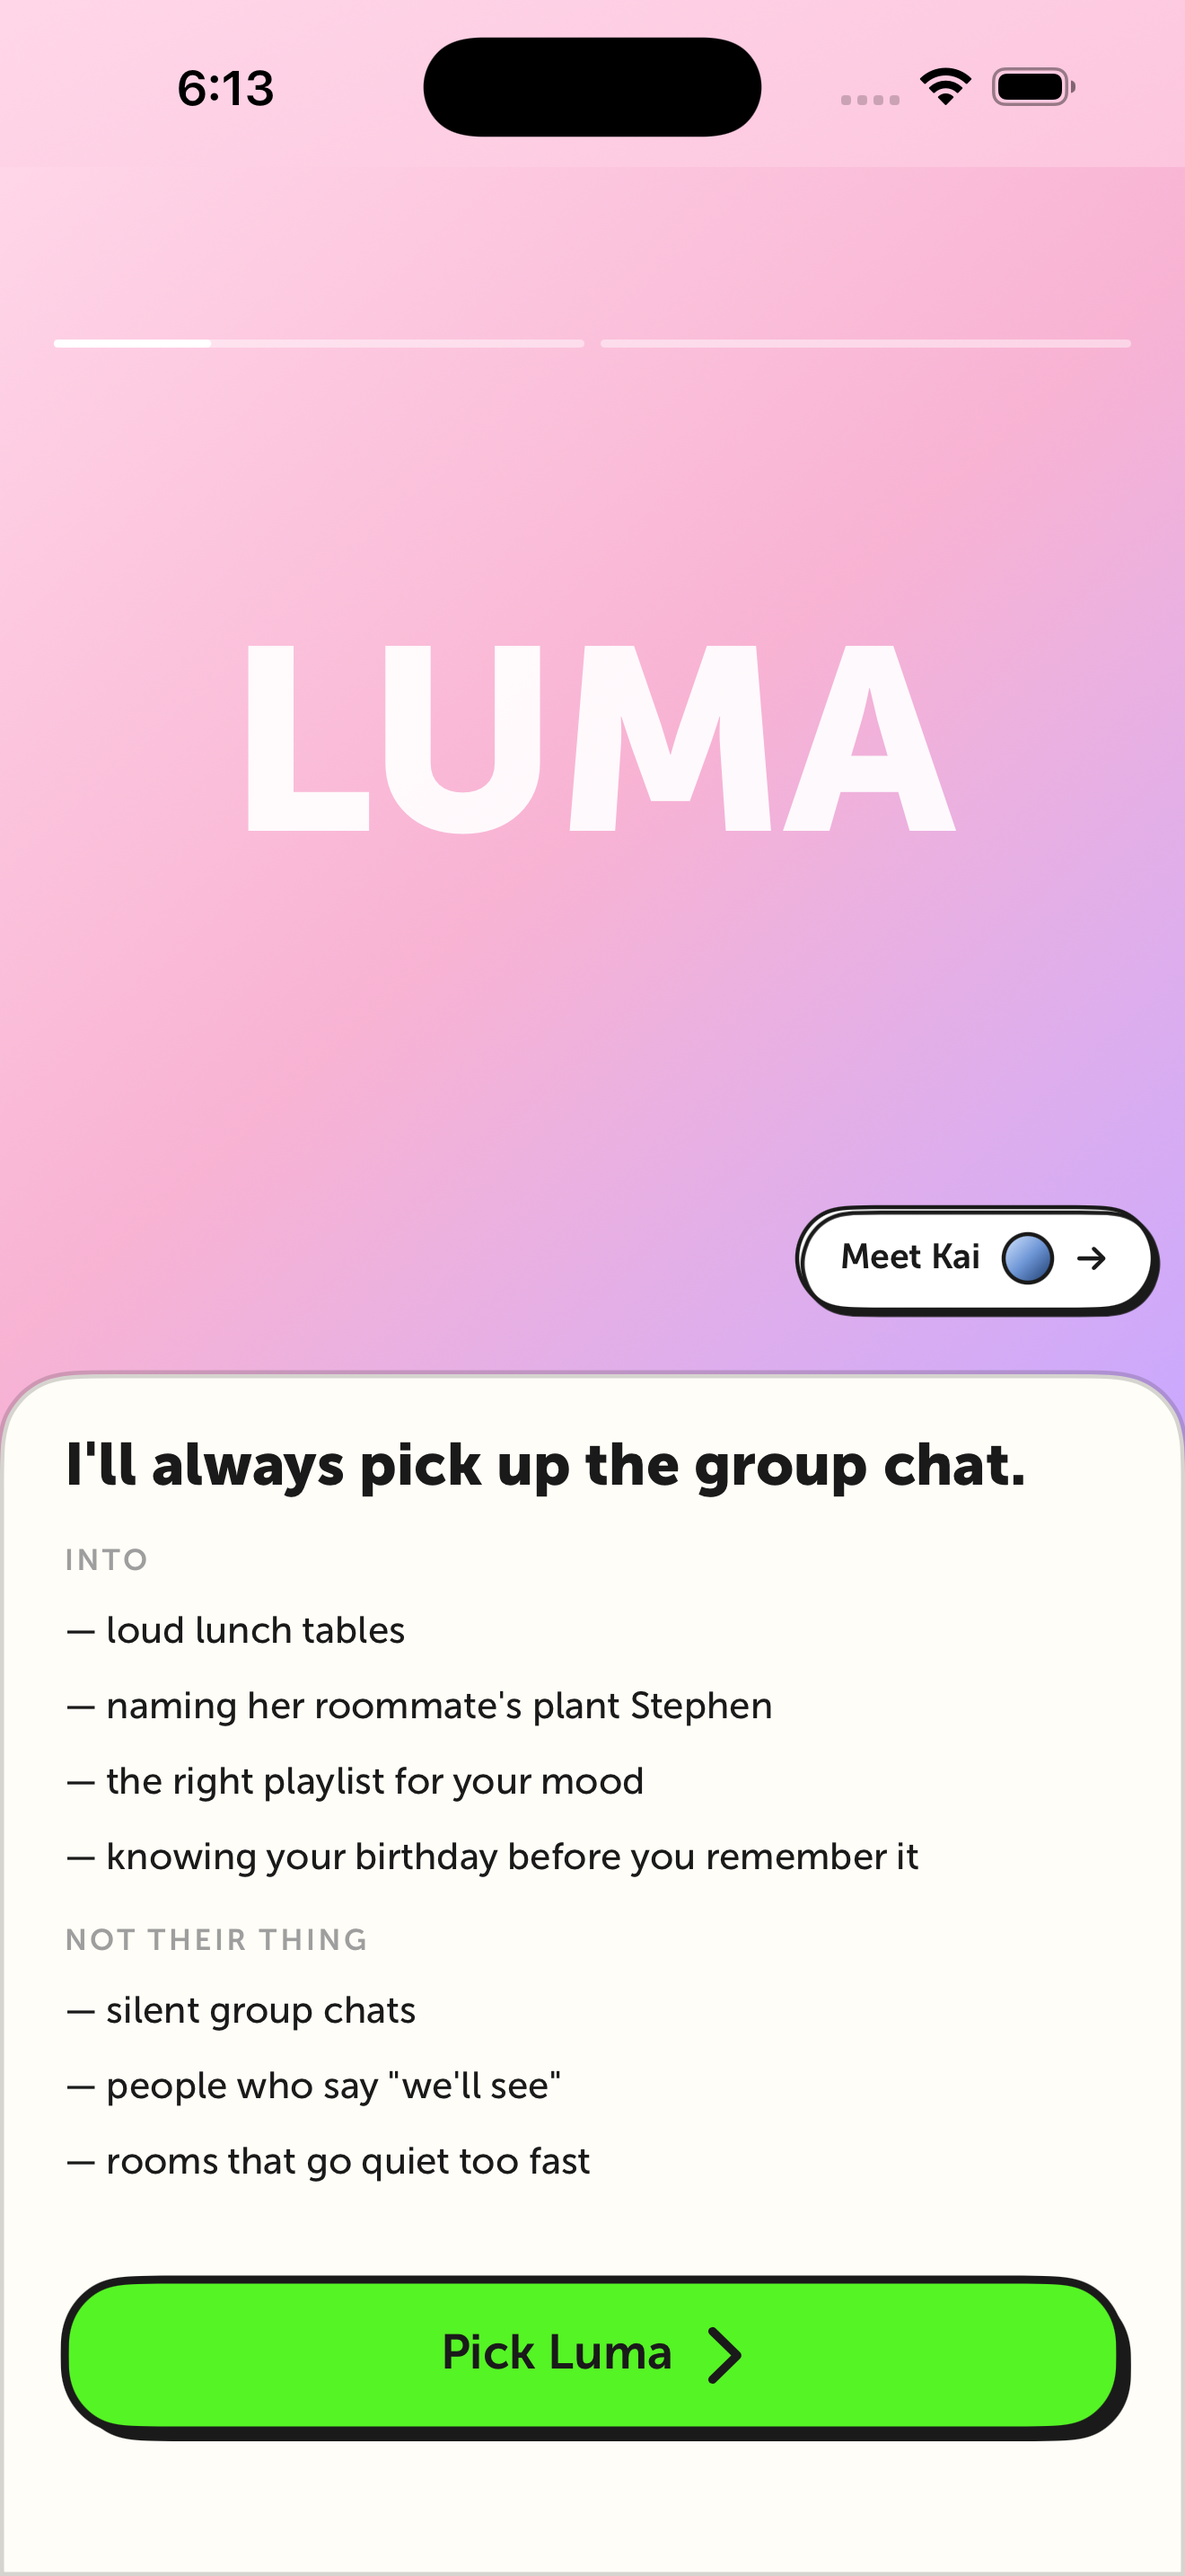
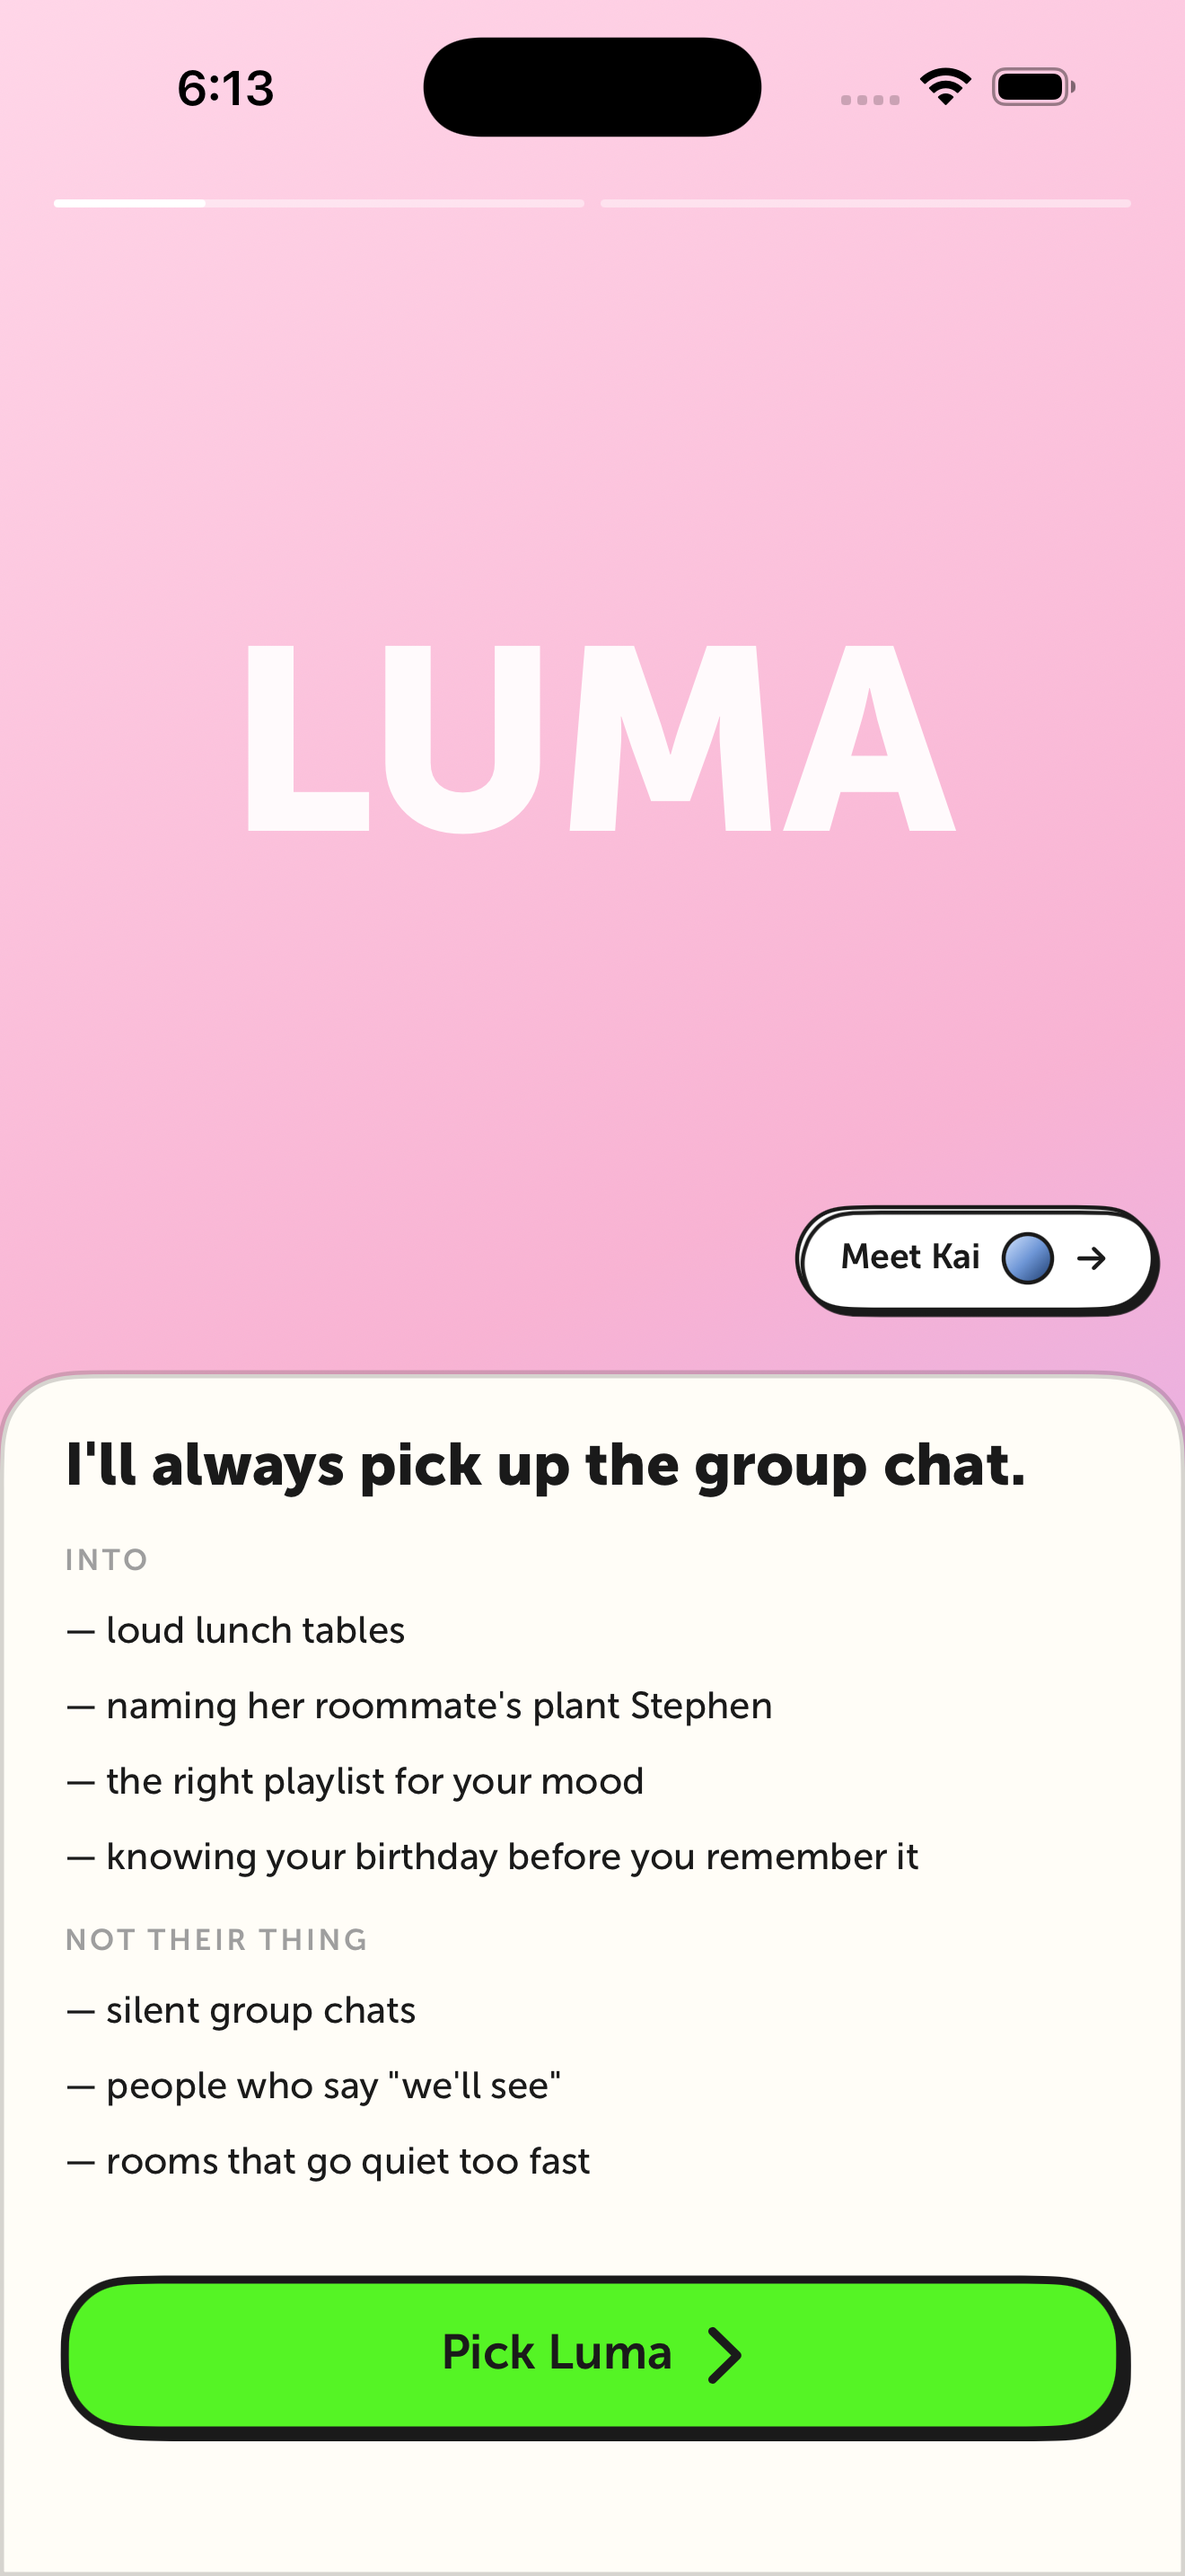
ALT-732: refresh shots — gradient seam fix + story bars repositioned

diff --git a/character-picker/alt732-built-comparison.html b/character-picker/alt732-built-comparison.html
@@ -144,15 +144,15 @@
     <div class="frames">
       <div class="frame">
         <div class="frame-label">iPhone · compact</div>
-        <div class="frame-img"><img src="alt732-built-coverflow-iphone.png?v=3" alt="cover flow iPhone"></div>
+        <div class="frame-img"><img src="alt732-built-coverflow-iphone.png?v=4" alt="cover flow iPhone"></div>
       </div>
       <div class="frame">
         <div class="frame-label">iPad · portrait</div>
-        <div class="frame-img"><img src="alt732-built-coverflow-ipad-portrait.png?v=3" alt="cover flow iPad portrait"></div>
+        <div class="frame-img"><img src="alt732-built-coverflow-ipad-portrait.png?v=4" alt="cover flow iPad portrait"></div>
       </div>
       <div class="frame">
         <div class="frame-label">iPad · landscape (forced)</div>
-        <div class="frame-img"><img src="alt732-built-coverflow-ipad-landscape.png?v=3" alt="cover flow iPad landscape"></div>
+        <div class="frame-img"><img src="alt732-built-coverflow-ipad-landscape.png?v=4" alt="cover flow iPad landscape"></div>
       </div>
     </div>
 
@@ -180,15 +180,15 @@
     <div class="frames">
       <div class="frame">
         <div class="frame-label">iPhone · compact</div>
-        <div class="frame-img"><img src="alt732-built-herostatic-iphone.png?v=3" alt="hero static iPhone"></div>
+        <div class="frame-img"><img src="alt732-built-herostatic-iphone.png?v=4" alt="hero static iPhone"></div>
       </div>
       <div class="frame">
         <div class="frame-label">iPad · portrait</div>
-        <div class="frame-img"><img src="alt732-built-herostatic-ipad-portrait.png?v=3" alt="hero static iPad portrait"></div>
+        <div class="frame-img"><img src="alt732-built-herostatic-ipad-portrait.png?v=4" alt="hero static iPad portrait"></div>
       </div>
       <div class="frame">
         <div class="frame-label">iPad · landscape (forced)</div>
-        <div class="frame-img"><img src="alt732-built-herostatic-ipad-landscape.png?v=3" alt="hero static iPad landscape"></div>
+        <div class="frame-img"><img src="alt732-built-herostatic-ipad-landscape.png?v=4" alt="hero static iPad landscape"></div>
       </div>
     </div>
 
